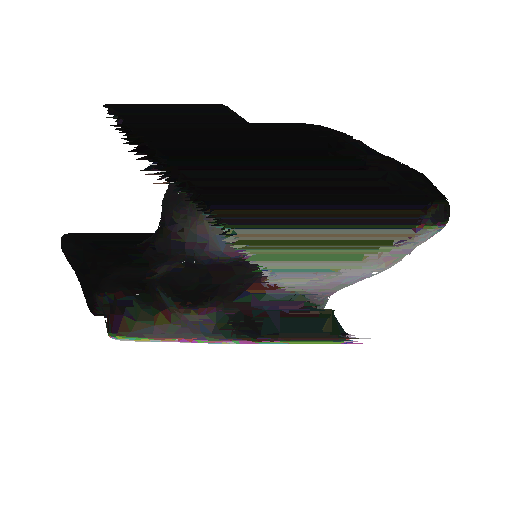
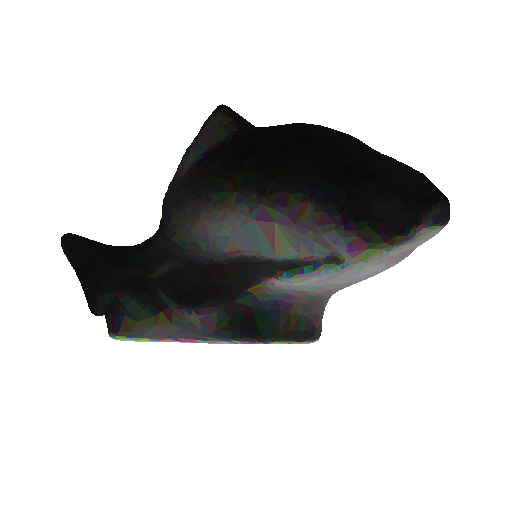
Finished algorithm implementation for both flat and gouraud shading, removed uneeded code from Edge class

diff --git a/shade_triangle.py b/shade_triangle.py
@@ -12,56 +12,63 @@ def shade_triangle(img, verts2d, vcolors, shade_t):
   # List that contains all the trianlge's edges
   edges = [Edge(np.delete(verts2d, i, axis=0), np.delete(vcolors, i, axis=0)) for i in range(3)]
   
-  # Edge bucket is a structure that contains information about an edge
+  # Edge bucket is a structure that contains the necessary information of an edge
   # define edge bucket data type
   edge_bucket_dtype = np.dtype({
-    'names': ('ymin', 'ymax', 'slope', 'intersection'),
-    'formats': (int, int, np.float32, np.float32)
+    'names': ('ymin', 'ymax', 'slope', 'intersection', 'low_color', 'high_color'),
+    'formats': (int, int, np.float32, np.float32, np.ndarray, np.ndarray)
   })
   
+  # create edge buckets for every edge of the triangle
   edge_buckets = np.array(
-    [(edge.ymin, edge.ymax, edge.slope(), edge.x_of_ymin) for edge in edges], 
+    [(edge.ymin, edge.ymax, edge.slope(), edge.x_of_ymin, edge.low_vert_color, edge.high_vert_color)
+     for edge in edges], 
     dtype=edge_bucket_dtype)
   
-  # Find Active edges list for scan line y == ymin
-  # ActiveEdgesList = np.array(
-  #   [(edge.ymin, edge.ymax, edge.slope(), edge.x_of_ymin) for edge in edges if not edge.is_horizontal() if edge.ymin == ymin],
-  #   dtype=edge_bucket_dtype)
-  
-  ActiveEdgesList = edge_buckets[np.logical_and(edge_buckets['slope'] != 0, edge_buckets['ymin'] == ymin)]
-  # ActiveEdgesList = edge_buckets[edge_buckets['ymin'] == ymin]
-  # ActiveEdgesList = ActiveEdgesList[ActiveEdgesList['slope'] != 0]
+  # Find Active Edges List for scan-line y == ymin
+  ActiveEdgesList = edge_buckets[edge_buckets['ymin'] == ymin]
   
   for y in range(ymin, ymax):
     # sort Active Edges in respect to intersection
     ActiveEdgesList = ActiveEdgesList[np.argsort(ActiveEdgesList['intersection'])]
-    
-    for i in range(ActiveEdgesList.shape[0] - 1):
-      # do a for loop here
-      if shade_t == 'flat':
-        for x in range(int(ActiveEdgesList[i]['intersection']), int(ActiveEdgesList[i + 1]['intersection'])):
-          # paint pixel using the center mass of vetrices colors
-          Y[y, x] = np.sum(vcolors, axis=1) / 3 
-      elif shade_t == 'gouraud':
-        # Add a comment here
-        color_left = interpolate_color()
-        color_right = interpolate_color()
-        
-        for x in range(int(ActiveEdgesList[i]['intersection']), int(ActiveEdgesList[i + 1]['intersection'])):
-          Y[x, y] = interpolate_color(0, 0, x, color_left, color_right)
-    
-    # Update ActiveEdgesList (AEL) recursively
-    # Exclude edges where ymax == y
+    # Exclude edges where ymax == y from AEL
     ActiveEdgesList = ActiveEdgesList[ActiveEdgesList['ymax'] != y]
     
-    # update intersection for pre-existing edges
-    ActiveEdgesList['intersection'] = ActiveEdgesList['intersection'] + (1 / ActiveEdgesList['slope'])
+    # Get the left and right intersections (x ccoordinate) between current scan-line and the triangle
+    left_intersection = np.ceil(ActiveEdgesList[0]['intersection'])
+    right_intersection = np.ceil(ActiveEdgesList[1]['intersection'])
+
+    if shade_t == 'flat':
+      # calculate the color to be assigned to the triangle's pixels (center mass of vetrices colors)
+      color = np.sum(vcolors, axis=1) / 3
+      
+      # paint the pixels between the intersection points for the current scan-line
+      for x in range(int(left_intersection), int(right_intersection)):
+        img[y, x] = color
+        
+    elif shade_t == 'gouraud':
+      # Calculate the color values of the intersection points using linear interpolation
+      color_left, color_right = interpolate_color(ActiveEdgesList['ymin'], 
+                                                    ActiveEdgesList['ymax'], 
+                                                    y, 
+                                                    ActiveEdgesList['low_color'],
+                                                    ActiveEdgesList['high_color'])
+        
+      # paint the pixels between the intersection points for the current scan-line
+      for x in range(int(left_intersection), int(right_intersection)):
+        img[y, x] = interpolate_color(int(left_intersection),
+                                      int(right_intersection),
+                                      x,
+                                      color_left,
+                                      color_right)
+    
+    # -- Update ActiveEdgesList (AEL) recursively --
+    # update the intersection of the already existing active edges
+    # so that it corresponds to the next scan-line
+    ActiveEdgesList['intersection'] += (1 / ActiveEdgesList['slope'])
     
     # Add edges where ymin == y + 1 in AEL
     newEdges = edge_buckets[edge_buckets['ymin'] == y + 1]
     ActiveEdgesList = np.append(ActiveEdgesList, newEdges)
     
-  # Do I need extra code to handle horizontal edges??
-  
-  # return img 
-  return Y
+  return img

diff --git a/Edge.py b/Edge.py
@@ -6,17 +6,14 @@ class Edge:
     self.point_b = verts2d[1, :]
     self.ymin = min(verts2d[:, 1])
     self.ymax = max(verts2d[:, 1])
-    self.x_of_ymin = verts2d[0, np.argmin(verts2d[:, 1])]
-    
-  def is_horizontal(self):
-    return self.point_a[1] == self.point_b[1]
+    self.x_of_ymin = verts2d[np.argmin(verts2d[:, 1]), 0]
+    self.low_vert_color = vcolors[np.argmin(verts2d[:, 1])]
+    self.high_vert_color = vcolors[np.argmax(verts2d[:, 1])]
     
   def is_vertical(self):
     return self.point_a[0] == self.point_b[0]
   
   def slope(self):
-    if self.is_horizontal(): return 0
-    
     if self.is_vertical(): return float('inf')
     
     return (self.point_a[1] - self.point_b[1]) / (self.point_a[0] - self.point_b[0])

diff --git a/demo_gouraud.py b/demo_gouraud.py
@@ -16,7 +16,7 @@ if __name__ == "__main__":
     img = render(verts2d, faces, vcolors, depth, 'gouraud')
     
     # convert image from BGR to RGB format
-    img = cv2.cvtColor(img, cv2.COLOR_BGR2RGB)
+    # img = cv2.cvtColor(img, cv2.COLOR_BGR2RGB)
     
     # convert img colors from range [0,1] to range [0,255] before saving
-    cv2.imwrite('flat_shading.png', img * 255)
+    cv2.imwrite('gouraud_shading.png', img * 255)

diff --git a/demo_flat.py b/demo_flat.py
@@ -16,8 +16,6 @@ if __name__ == "__main__":
 
     img = render(verts2d, faces, vcolors, depth, 'flat')
     
-    print(img.shape)
-    
     # convert image from BGR to RGB format
     # img = cv2.cvtColor(img, cv2.COLOR_BGR2RGB)
     
